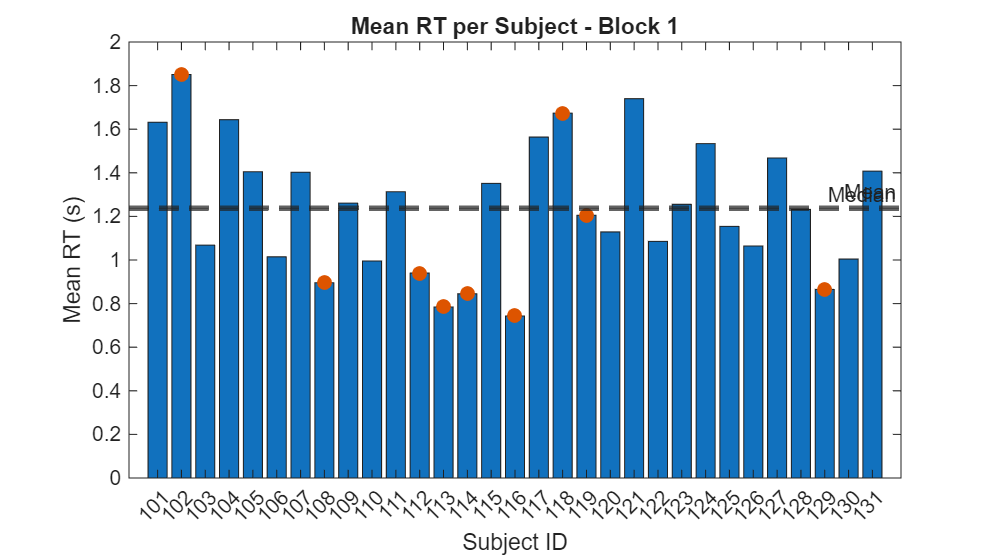
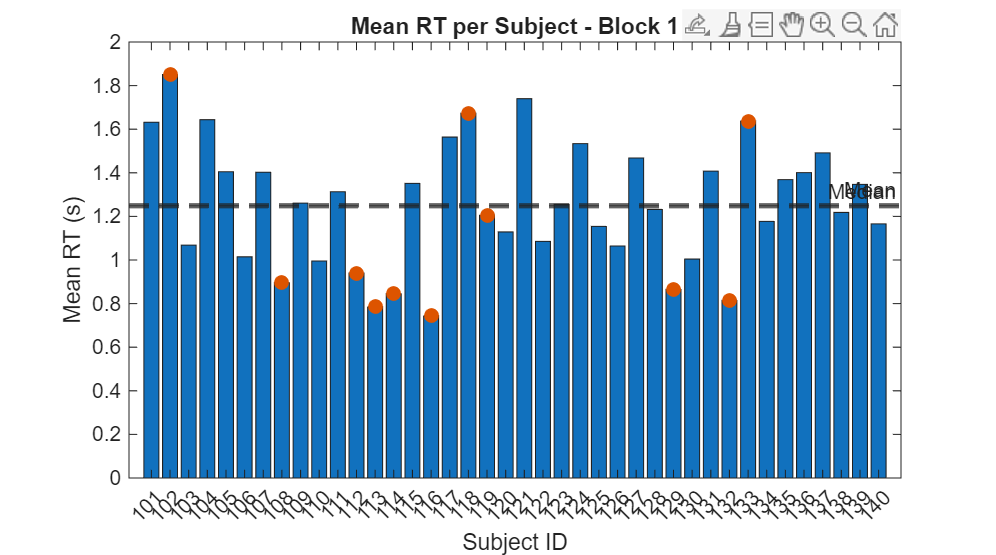
add grafe

diff --git a/src/analysis/matlab/behavior_subject_summary_export.m b/src/analysis/matlab/behavior_subject_summary_export.m
@@ -2,8 +2,11 @@
 %
 % Purpose:
 % Extract subject-level behavioral summary measures from the decision-making task,
-% create a summary table, save it as CSV, and generate two bar plots:
-% one for Block 1 mean RT across subjects and one for Block 2 mean RT across subjects.
+% create a summary table, save it as CSV, and generate four bar plots:
+% one for Block 1 mean RT across subjects,
+% one for Block 2 mean RT across subjects,
+% one for Block 1 accuracy across subjects,
+% and one for Block 2 accuracy across subjects.
 %
 % Input folder:
 % C:\Projects\Thesis_EyeTracking\data\raw
@@ -34,7 +37,7 @@ end
 a1 = 'subject_';   % change to 'Subject_' if needed
 a2 = '_Results_Decision_Strategy_Experiment.mat';
 
-numOfSubjects = 31;
+numOfSubjects = 40;
 firstSubjectID = 101;
 numOfTrialsPerBlock = 100;
 
@@ -321,3 +324,64 @@ saveas(gcf, plot_file_block2);
 
 fprintf('Block 1 plot saved to:\n%s\n', plot_file_block1);
 fprintf('Block 2 plot saved to:\n%s\n', plot_file_block2);
+
+%% bar plot for accuracy per subject - block 1
+valid_idx_acc_block1 = ~isnan(accuracy_block1);
+subjects_acc_block1 = subject_id(valid_idx_acc_block1);
+values_acc_block1 = accuracy_block1(valid_idx_acc_block1);
+flags_acc_block1 = flag_suspect_any(valid_idx_acc_block1);
+
+figure;
+bar(subjects_acc_block1, values_acc_block1);
+hold on;
+yline(mean(values_acc_block1, 'omitnan'), '--', 'Mean', 'LineWidth', 1.5);
+yline(median(values_acc_block1, 'omitnan'), '--', 'Median', 'LineWidth', 1.5);
+
+suspect_subjects_acc_block1 = subjects_acc_block1(flags_acc_block1 == 1);
+suspect_values_acc_block1 = values_acc_block1(flags_acc_block1 == 1);
+if ~isempty(suspect_subjects_acc_block1)
+    scatter(suspect_subjects_acc_block1, suspect_values_acc_block1, 50, 'filled');
+end
+
+title('Accuracy per Subject - Block 1');
+xlabel('Subject ID');
+ylabel('Accuracy');
+ylim([0 1]);
+xticks(subjects_acc_block1);
+xtickangle(45);
+hold off;
+
+plot_file_acc_block1 = fullfile(output_dir, 'accuracy_per_subject_block1.png');
+saveas(gcf, plot_file_acc_block1);
+
+%% bar plot for accuracy per subject - block 2
+valid_idx_acc_block2 = ~isnan(accuracy_block2);
+subjects_acc_block2 = subject_id(valid_idx_acc_block2);
+values_acc_block2 = accuracy_block2(valid_idx_acc_block2);
+flags_acc_block2 = flag_suspect_any(valid_idx_acc_block2);
+
+figure;
+bar(subjects_acc_block2, values_acc_block2);
+hold on;
+yline(mean(values_acc_block2, 'omitnan'), '--', 'Mean', 'LineWidth', 1.5);
+yline(median(values_acc_block2, 'omitnan'), '--', 'Median', 'LineWidth', 1.5);
+
+suspect_subjects_acc_block2 = subjects_acc_block2(flags_acc_block2 == 1);
+suspect_values_acc_block2 = values_acc_block2(flags_acc_block2 == 1);
+if ~isempty(suspect_subjects_acc_block2)
+    scatter(suspect_subjects_acc_block2, suspect_values_acc_block2, 50, 'filled');
+end
+
+title('Accuracy per Subject - Block 2');
+xlabel('Subject ID');
+ylabel('Accuracy');
+ylim([0 1]);
+xticks(subjects_acc_block2);
+xtickangle(45);
+hold off;
+
+plot_file_acc_block2 = fullfile(output_dir, 'accuracy_per_subject_block2.png');
+saveas(gcf, plot_file_acc_block2);
+
+fprintf('Accuracy Block 1 plot saved to:\n%s\n', plot_file_acc_block1);
+fprintf('Accuracy Block 2 plot saved to:\n%s\n', plot_file_acc_block2);

diff --git a/src/analysis/matlab/behavior_wa_score_pooled_3_4_export.m b/src/analysis/matlab/behavior_wa_score_pooled_3_4_export.m
@@ -1,7 +1,34 @@
 %% extract data
+% This script is based on the original raw MATLAB file provided by Gal,
+% a PhD student in the lab, for extracting variables from the behavioral data.
+%
+% The original logic was preserved as much as possible.
+% The current version was adapted to compute a single pooled behavioral
+% WA-based relative score across the two experimental blocks together,
+% treating the 3-attribute block and the 4-attribute block as one merged
+% set of 200 trials.
+%
+% Input:
+% - Subject-level MATLAB files in .mat format
+%   (e.g., subject_101_Results_Decision_Strategy_Experiment.mat)
+% - Each file is expected to contain the behavioral Data structure used
+%   in the original script.
+%
+% Output:
+% - A CSV file named behavior_wa_score_relative_pooled_3_4.csv
+% - The output contains subject-level behavioral variables:
+%   subject_id, wa_score_pooled_3_4
+%
+% Purpose:
+% - To extract a single pooled behavioral WA-based relative score for each
+%   subject across Block 3 and Block 4 together, in a format that can be
+%   read easily in Python for downstream correlation analysis with
+%   eye-movement metrics.
+
+
 clear; clc
 a1 = 'subject_'; a2 = '_Results_Decision_Strategy_Experiment.mat';
-numOfSubjects = 39;
+numOfSubjects = 40;
 numOfTrials = 100;
 numOfPractice = 10;
 data_strategy_class_3 = [];

diff --git a/src/analysis/matlab/behavior_wa_scores_export.m b/src/analysis/matlab/behavior_wa_scores_export.m
@@ -26,7 +26,7 @@
 %% extract data
 clear; clc
 a1 = 'subject_'; a2 = '_Results_Decision_Strategy_Experiment.mat';
-numOfSubjects = 39;
+numOfSubjects = 40;
 numOfTrials = 100;
 numOfPractice = 10;
 data_strategy_class_3 = [];
